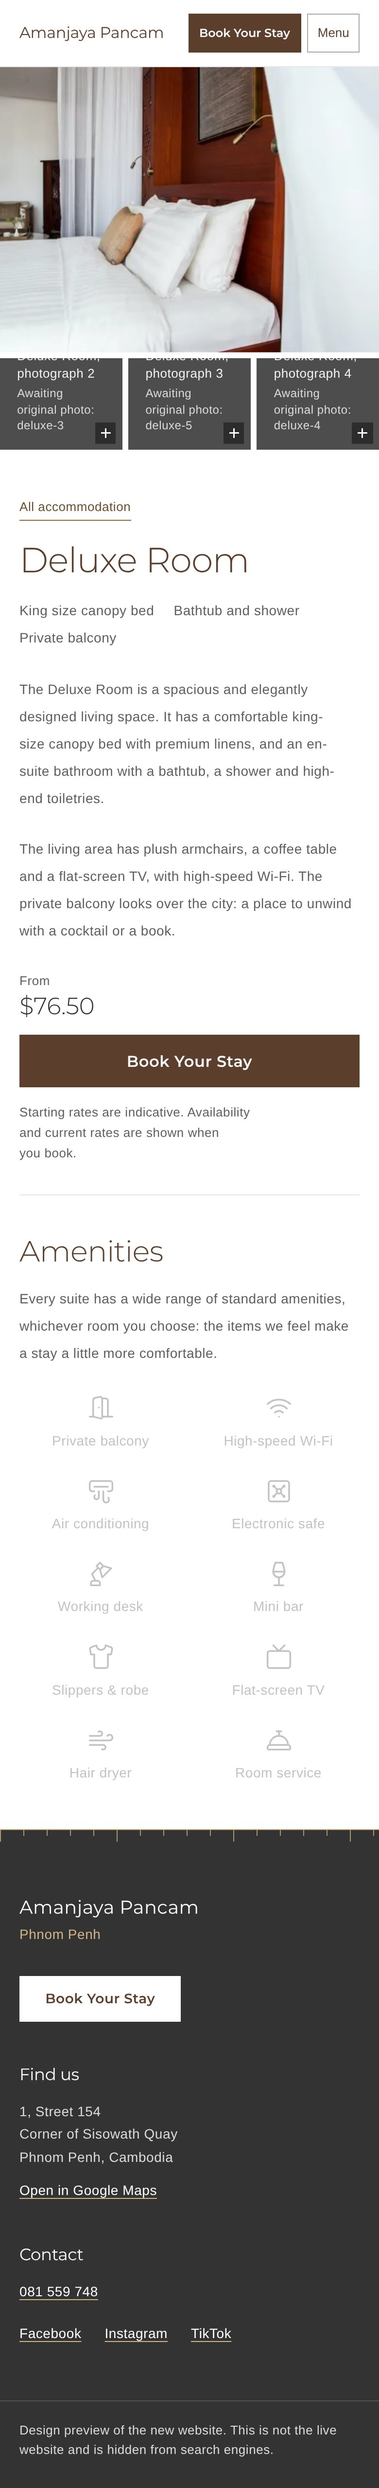
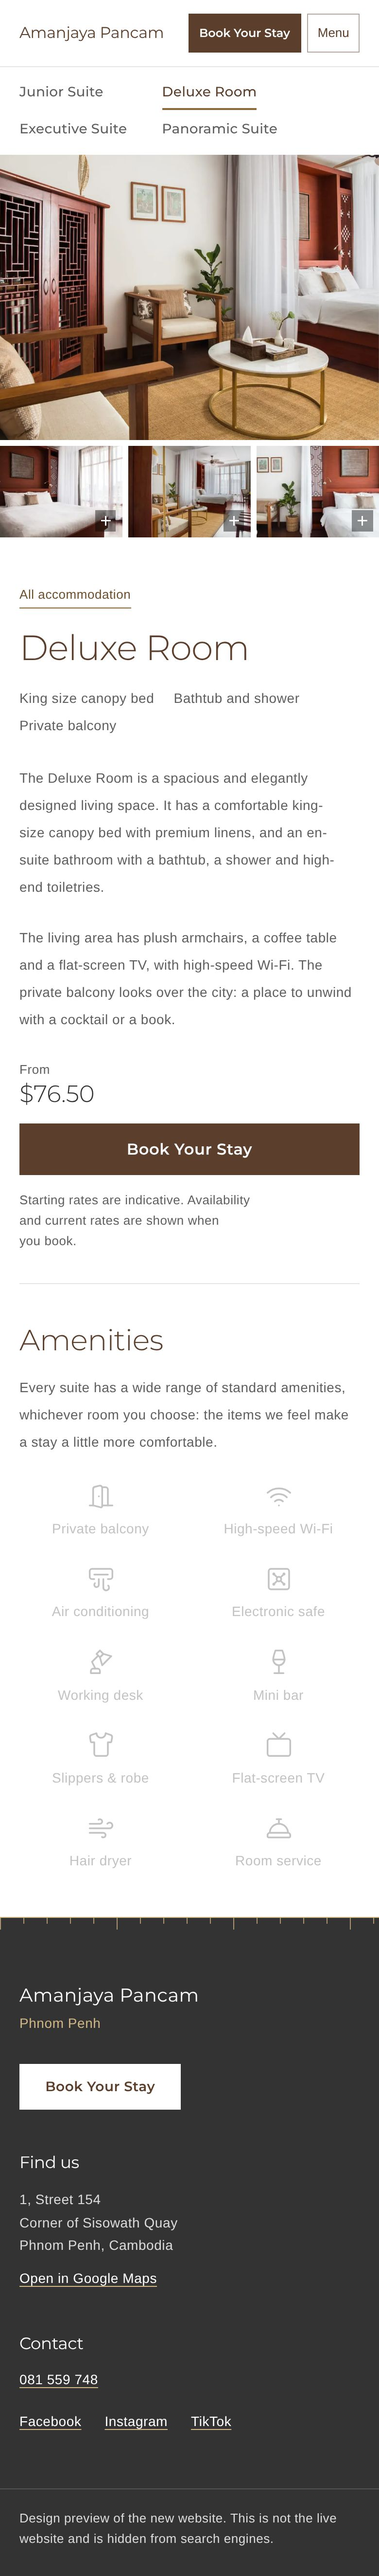
Room pages: use the uploaded hotel photographs
Deluxe, Executive and Panoramic now have four real photographs each with descriptive alt text; no
placeholders remain. Removes the duplicate .webp copies of junior-14, -6 and -8 (same photographs as the
uploaded .jpg files). Manifest and docs updated.

Claude-Session: https://claude.ai/code/session_01Ltb6LhfXKYs7J7ZKfoUyej

Changed region(s): [[0.0, 0.0, 1.0, 0.9953], [0.6154, 0.9642, 0.7077, 0.9953]]

diff --git a/src/content/rooms.ts b/src/content/rooms.ts
@@ -150,20 +150,38 @@ export const rooms: Room[] = [
       'Hair dryer',
       'Room service',
     ],
-    // The existing page's carousel runs deluxe3, deluxe5, deluxe4, deluxe1, deluxe2 (deluxe3 is its lead). Only
-    // deluxe1 is in the repository so far (and only 674px wide), so it leads here; the other three are placeholders
-    // until the hotel supplies them (file names in docs/ROOM-TEMPLATE.md). Reorder this list to change which is large.
+    // Hotel photographs, all supplied by the hotel team. The existing page's carousel runs deluxe3, 5, 4, 1, 2; this
+    // uses 3, 5, 2 and 4 and leaves out deluxe-1, which is only 674px wide and shows the same bed as deluxe-5.
+    // The large photograph is the first; reorder the list to change it.
     photos: [
       {
-        key: 'suite-deluxe',
-        label: 'Bed and headboard',
-        alt: 'The bed in the Deluxe Room against a headboard wall of warm wood with a framed textile panel and brass reading lights, with white pillows, sheer curtains, and an armchair and small round table in the background',
-        position: '60% 50%',
-        source: '2020/09/Amanjaya-deluxe1.jpg',
+        key: 'deluxe-3',
+        label: 'Corner with cabinet',
+        alt: 'A corner of the Deluxe Room: a dark wood cabinet with a carved lattice front, an armchair with patterned cushions beside a round marble table with a brass base, framed botanical prints on the wall, and part of the bed at the right',
+        position: '50% 60%',
+        source: '2020/09/Amanjaya-deluxe3.jpg',
       },
-      { key: 'deluxe-3', label: 'Photograph 2', alt: 'The Deluxe Room', source: '2020/09/Amanjaya-deluxe3.jpg' },
-      { key: 'deluxe-5', label: 'Photograph 3', alt: 'The Deluxe Room', source: '2020/09/Amanjaya-deluxe5.jpg' },
-      { key: 'deluxe-4', label: 'Photograph 4', alt: 'The Deluxe Room', source: '2020/09/Amanjaya-deluxe4.jpg' },
+      {
+        key: 'deluxe-5',
+        label: 'Bed and windows',
+        alt: 'The king-size bed in the Deluxe Room against a wood headboard wall with a framed textile panel and lattice, with white linens, brass reading lights and sheer curtains over tall windows',
+        position: '50% 65%',
+        source: '2020/09/Amanjaya-deluxe5.jpg',
+      },
+      {
+        key: 'deluxe-2',
+        label: 'Living area',
+        alt: 'The Deluxe Room seen from the living area: armchairs and a round marble table on a woven rug, the bed beyond, a desk and chair by tall sheer-curtained windows, and a ceiling fan',
+        position: '60% 55%',
+        source: '2020/09/Amanjaya-deluxe2.jpg',
+      },
+      {
+        key: 'deluxe-4',
+        label: 'Armchair and bed',
+        alt: 'An armchair and a large plant in a basket beside the bed in the Deluxe Room, with framed prints on the white wall and a wood headboard with lattice panels',
+        position: '70% 50%',
+        source: '2020/09/Amanjaya-deluxe4.jpg',
+      },
     ],
   },
   {
@@ -198,19 +216,39 @@ export const rooms: Room[] = [
       'Hair dryer',
       'Room service',
     ],
-    // Carousel on the existing page: executive3 (lead), executive2, executive4, executive5, executive12. Only
-    // executive12 is in the repository so far (it leads here); the other three are placeholders.
+    // Hotel photographs, supplied by the hotel team. The existing page's carousel runs executive3, 2, 4, 5, 12; this
+    // leads with executive7 (the living area, which the description is about; the hotel also uses it as this
+    // room's picture on its offers pages), then 3, 9 and 4. Also in the repository and available: executive-2 (sofa),
+    // executive-10 (bathroom vanity), executive-11 (wide view of bed and lounge), executive-12 (bed detail).
     photos: [
       {
-        key: 'suite-executive',
-        label: 'Bed and headboard',
-        alt: 'The bed in the Executive Suite against a headboard wall of warm wood with a framed textile panel and a lattice panel lit by a bright reading light, with white pillows, a woven cushion and sheer curtains',
-        position: '55% 50%',
-        source: '2020/09/Amanjaya-executive12.jpg',
+        key: 'executive-7',
+        label: 'Living area',
+        alt: 'The living area of the Executive Suite: a sofa and armchairs around a round table on a woven rug, a plant and floor lamp, and a wooden desk and chair at the right, on a polished dark wood floor under warm lighting',
+        position: '40% 50%',
+        source: '2020/09/Amanjaya-executive7.jpg',
       },
-      { key: 'executive-3', label: 'Photograph 2', alt: 'The Executive Suite', source: '2020/09/Amanjaya-executive3.jpg' },
-      { key: 'executive-2', label: 'Photograph 3', alt: 'The Executive Suite', source: '2020/09/Amanjaya-executive2.jpg' },
-      { key: 'executive-4', label: 'Photograph 4', alt: 'The Executive Suite', source: '2020/09/Amanjaya-executive4.jpg' },
+      {
+        key: 'executive-3',
+        label: 'Bed and headboard',
+        alt: 'The bed in the Executive Suite against a wood headboard wall with a framed textile panel and carved lattice panels, with sheer curtains either side and a ceiling fan above',
+        position: '50% 55%',
+        source: '2020/09/Amanjaya-executive3.jpg',
+      },
+      {
+        key: 'executive-9',
+        label: 'Balcony view',
+        alt: 'The bed in the Executive Suite beside open balcony doors, with a table and chairs on the balcony and a view over rooftops to ornate pagoda spires',
+        position: '60% 50%',
+        source: '2020/09/Amanjaya-executive9.jpg',
+      },
+      {
+        key: 'executive-4',
+        label: 'Bed and lounge',
+        alt: 'The Executive Suite bed with a bench at its foot, seen through the leaves of a large plant, with the lounge area and windows beyond',
+        position: '40% 55%',
+        source: '2020/09/Amanjaya-executive4.jpg',
+      },
     ],
   },
   {
@@ -245,19 +283,38 @@ export const rooms: Room[] = [
       'Hair dryer',
       'Room service',
     ],
-    // Carousel on the existing page: panoramic3 (lead), panoramic2, panoramic6, panoramic4, panoramic7. Only
-    // panoramic2 is in the repository so far (it leads here); the other three are placeholders.
+    // Hotel photographs, supplied by the hotel team. The existing page's carousel runs panoramic3, 2, 6, 4, 7. This
+    // leads with panoramic2 (the whole room) rather than panoramic3 (a close view of louvred shutters). Also in the
+    // repository and available: panoramic-3, panoramic-8 (the bed and a sofa with flowers).
     photos: [
       {
-        key: 'suite-panoramic',
+        key: 'panoramic-2',
         label: 'Bed and lounge',
         alt: 'The Panoramic Suite: a king bed with a bench at its foot and sheer curtains, a writing desk with a lamp and chair and a large plant in front of tall windows full of light, a ceiling fan, and a round marble table with fruit in the foreground',
         position: '60% 50%',
         source: '2020/09/Amanjaya-panoramic2.jpg',
       },
-      { key: 'panoramic-3', label: 'Photograph 2', alt: 'The Panoramic Suite', source: '2020/09/Amanjaya-panoramic3.jpg' },
-      { key: 'panoramic-6', label: 'Photograph 3', alt: 'The Panoramic Suite', source: '2020/09/Amanjaya-panoramic6.jpg' },
-      { key: 'panoramic-4', label: 'Photograph 4', alt: 'The Panoramic Suite', source: '2020/09/Amanjaya-panoramic4.jpg' },
+      {
+        key: 'panoramic-6',
+        label: 'Bed and desk',
+        alt: 'The Panoramic Suite: the bed with a cushioned bench at its foot, a desk and chair by a balcony door, and wide windows with sheer curtains opening onto sky and rooftops',
+        position: '50% 60%',
+        source: '2020/09/Amanjaya-panoramic6.jpg',
+      },
+      {
+        key: 'panoramic-4',
+        label: 'Balcony doors',
+        alt: 'The Panoramic Suite: the bed and a wooden desk with a large plant beside tall glass doors that open onto a balcony, with grey curtains and a view of trees and sky',
+        position: '55% 50%',
+        source: '2020/09/Amanjaya-panoramic4.jpg',
+      },
+      {
+        key: 'panoramic-7',
+        label: 'Window view',
+        alt: 'The Panoramic Suite in the evening: a bed with a bench at its foot, a desk and chair by a window, and tall windows and a balcony door looking out over the city',
+        position: '45% 50%',
+        source: '2020/09/Amanjaya-panoramic7.jpg',
+      },
     ],
   },
 ];

diff --git a/docs/ROOM-TEMPLATE.md b/docs/ROOM-TEMPLATE.md
@@ -116,14 +116,15 @@ Points for the hotel to confirm:
 - **Executive.** The balcony and espresso machine come only from the shared amenities block; the description does not mention a balcony or a bed, so none is claimed in the text.
 - Copy is lightly edited for grammar and the sales adjectives ("stunning", "luxurious", "ultimate") are dropped, as on the Junior page.
 
-### Photographs: one real photograph per room so far
+### Photographs
 
-Each existing page has a five-slide carousel. Only one photograph of each is in the repository, so each gallery shows it large with three labelled **placeholders**. To finish, add the files below to `src/assets/photos/` (`.webp` or `.jpg`, named exactly), and the placeholders are replaced with no code change.
+The hotel team has uploaded the room photographs (`deluxe-1` to `-5`, `executive-2, -3, -4, -7, -9, -10, -11, -12`, `panoramic-2, -3, -4, -6, -7, -8`, and extra Junior ones `junior-1, -2, -5, -12, -13`). There are no placeholders left on any room page. Each gallery uses four (the first four in `photos` in `rooms.ts`):
 
-| Room | In the repository | Needed (existing page order) |
-|---|---|---|
-| Deluxe | `suite-deluxe` (= deluxe1, only 674px wide, so it looks soft when large: a bigger original is needed) | `deluxe-3` (the page's lead), `deluxe-5`, `deluxe-4` (and `deluxe2` if wanted) |
-| Executive | `suite-executive` (= executive12) | `executive-3` (the page's lead), `executive-2`, `executive-4` (and `executive5`) |
-| Panoramic | `suite-panoramic` (= panoramic2) | `panoramic-3` (the page's lead), `panoramic-6`, `panoramic-4` (and `panoramic7`) |
+| Room | Large photograph | The three beside it | Not used (in the repository) |
+|---|---|---|---|
+| Deluxe | `deluxe-3`: corner with the lattice cabinet, armchair, marble table and the bed | `deluxe-5` (bed and windows), `deluxe-2` (living area), `deluxe-4` (armchair and bed) | `deluxe-1`: only 674px wide and the same bed as `deluxe-5` |
+| Executive | `executive-7`: the living area with sofa, armchairs and desk | `executive-3` (bed and headboard), `executive-9` (balcony view), `executive-4` (bed and lounge) | `executive-2`, `-10` (bathroom vanity), `-11`, `-12` |
+| Panoramic | `panoramic-2`: the whole room | `panoramic-6` (bed and desk), `panoramic-4` (balcony doors), `panoramic-7` (window view) | `panoramic-3` (louvred shutters, close up), `panoramic-8` |
+| Junior | `junior-8` (unchanged, approved) | `junior-6`, `junior-12`, `junior-14` | `junior-1`, `-2`, `-5`, `-13` |
 
-The gallery uses the first four entries of each room's `photos` list in `rooms.ts`; once the files arrive, reorder that list (the hotel's own order starts with the `-3` photograph) and write the alt text for each. Placeholder alt text is deliberately generic until someone has looked at the photograph.
+On the hotel's own pages the lead slide is `deluxe3`, `executive3` and `panoramic3`; the choices above lead instead with the strongest wide view of each room, which is a design decision you can reverse by reordering `photos`. The alt text for each describes only what is visible. The `junior-14`, `-6` and `-8` files were uploaded twice (as `.webp` and `.jpg`, the same photographs); the `.webp` copies were removed.
